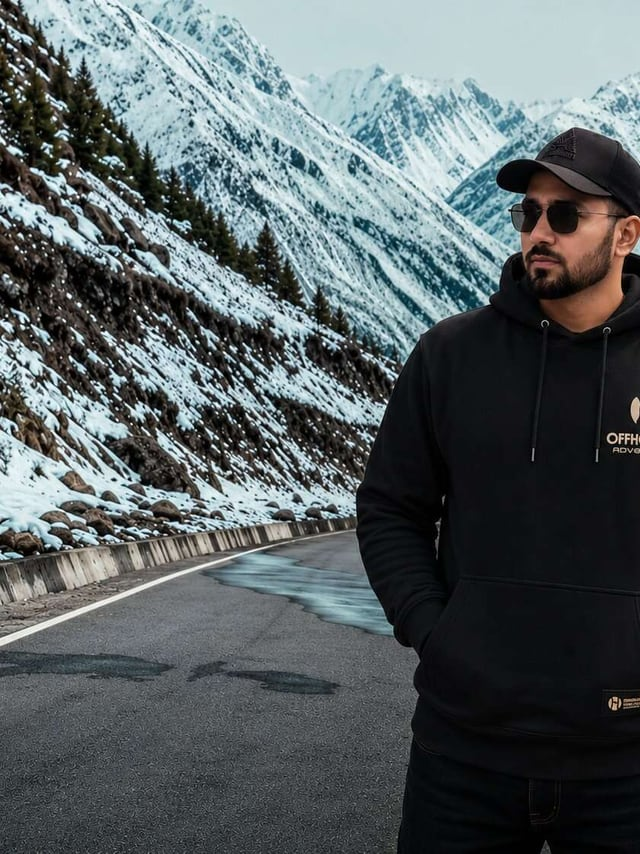
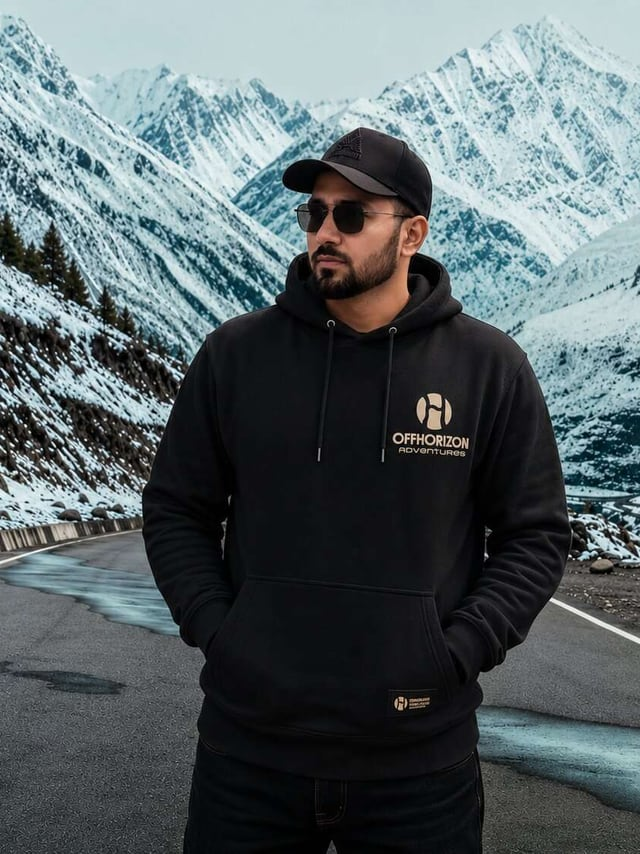
Correct country count, reorder destinations, reframe crew photo
The About hero read three countries; the business operates in five. The
surrounding copy named only the three Himalayan ones, so the lead and the
meta description now name all five, and areaServed in the structured data
matches.

Home gallery reordered to India, Nepal, Sri Lanka, Bhutan, Mongolia.

Tushar Ranta's replacement photo is centred, so it takes a plain centre crop
rather than the content-aware one that mis-framed the previous file.

diff --git a/src/config/destinations.ts b/src/config/destinations.ts
@@ -25,9 +25,9 @@ export type Destination = {
  * Order matters: this is the left-to-right order of the arc.
  */
 export const destinations: Destination[] = [
-  { key: "mongolia", href: "/destinations/mongolia", flag: "mn", image: mongolia, tours: 3 },
-  { key: "nepal", href: "/destinations/nepal", flag: "np", image: nepal, tours: 4 },
   { key: "india", href: "/destinations/india", flag: "in", image: india, tours: 9 },
-  { key: "bhutan", href: "/destinations/bhutan", flag: "bt", image: bhutan, tours: 3 },
+  { key: "nepal", href: "/destinations/nepal", flag: "np", image: nepal, tours: 4 },
   { key: "sriLanka", href: "/destinations/sri-lanka", flag: "lk", image: sriLanka, tours: 2 },
+  { key: "bhutan", href: "/destinations/bhutan", flag: "bt", image: bhutan, tours: 3 },
+  { key: "mongolia", href: "/destinations/mongolia", flag: "mn", image: mongolia, tours: 3 },
 ];

diff --git a/src/config/social.ts b/src/config/social.ts
@@ -1,15 +1,11 @@
 import { Facebook, Instagram, YouTube } from "@/components/ui/icons";
 
-/**
- * TODO: replace with the real Offhorizon account URLs before launch.
- * These are placeholders based on the brand name.
- */
 export const socialLinks = [
   { key: "facebook", label: "Facebook", href: "https://www.facebook.com/offhorizon", Icon: Facebook },
   {
     key: "instagram",
     label: "Instagram",
-    href: "https://www.instagram.com/offhorizon",
+    href: "https://www.instagram.com/offhorizonadventures",
     Icon: Instagram,
   },
   { key: "youtube", label: "YouTube", href: "https://www.youtube.com/@Offhorizonadvenutures", Icon: YouTube },

diff --git a/src/app/[locale]/about-us/page.tsx b/src/app/[locale]/about-us/page.tsx
@@ -39,7 +39,7 @@ export default async function AboutPage({ params }: PageProps<"/[locale]/about-u
       "@type": "TravelAgency",
       name: siteName,
       foundingDate: "2014",
-      areaServed: ["India", "Nepal", "Bhutan"],
+      areaServed: ["India", "Nepal", "Bhutan", "Sri Lanka", "Mongolia"],
       description: t("meta.description"),
     },
   };

diff --git a/src/components/about/AboutHero.tsx b/src/components/about/AboutHero.tsx
@@ -6,7 +6,7 @@ import { crewCount } from "@/config/team";
 /** Figures are facts about the business, so only the labels are translated. */
 const facts = [
   { value: "2014", key: "since" },
-  { value: "3", key: "countries" },
+  { value: "5", key: "countries" },
   { value: String(crewCount), key: "crew" },
 ] as const;
 
